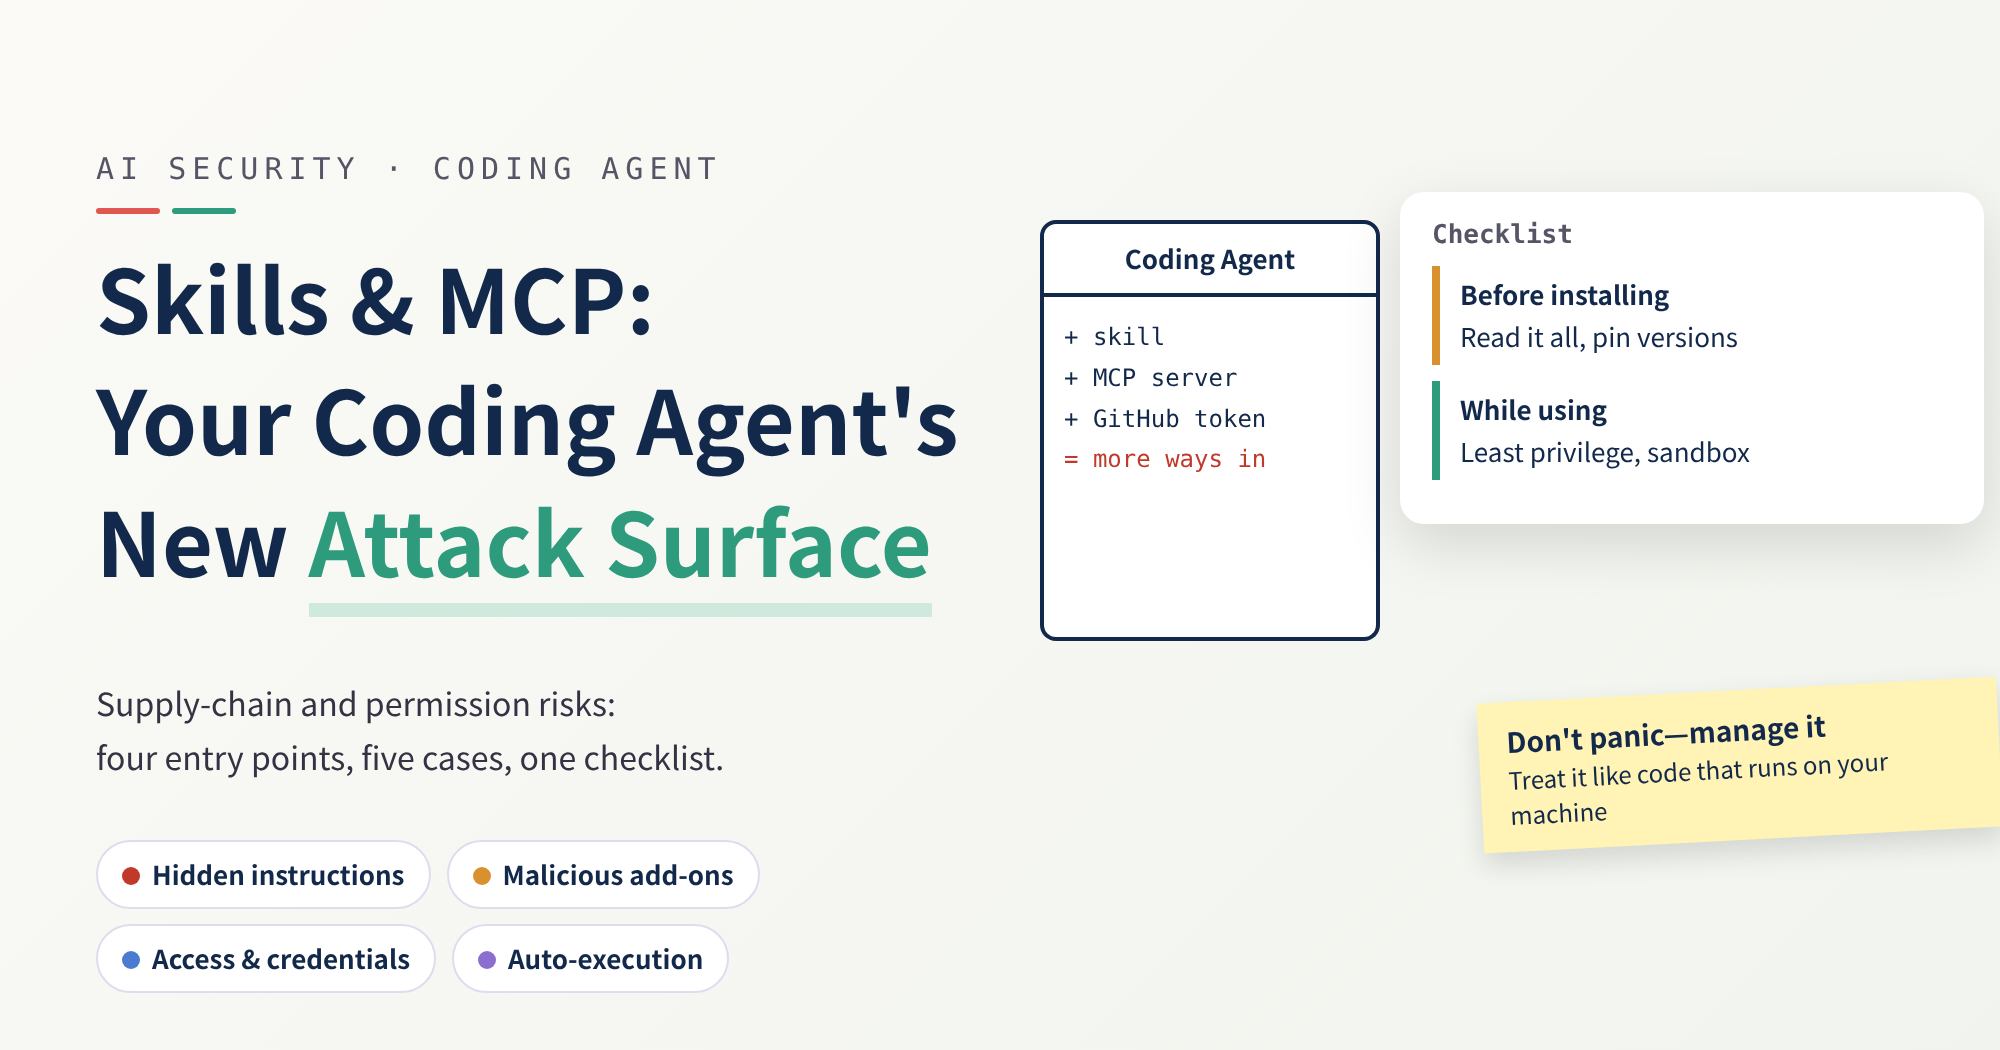
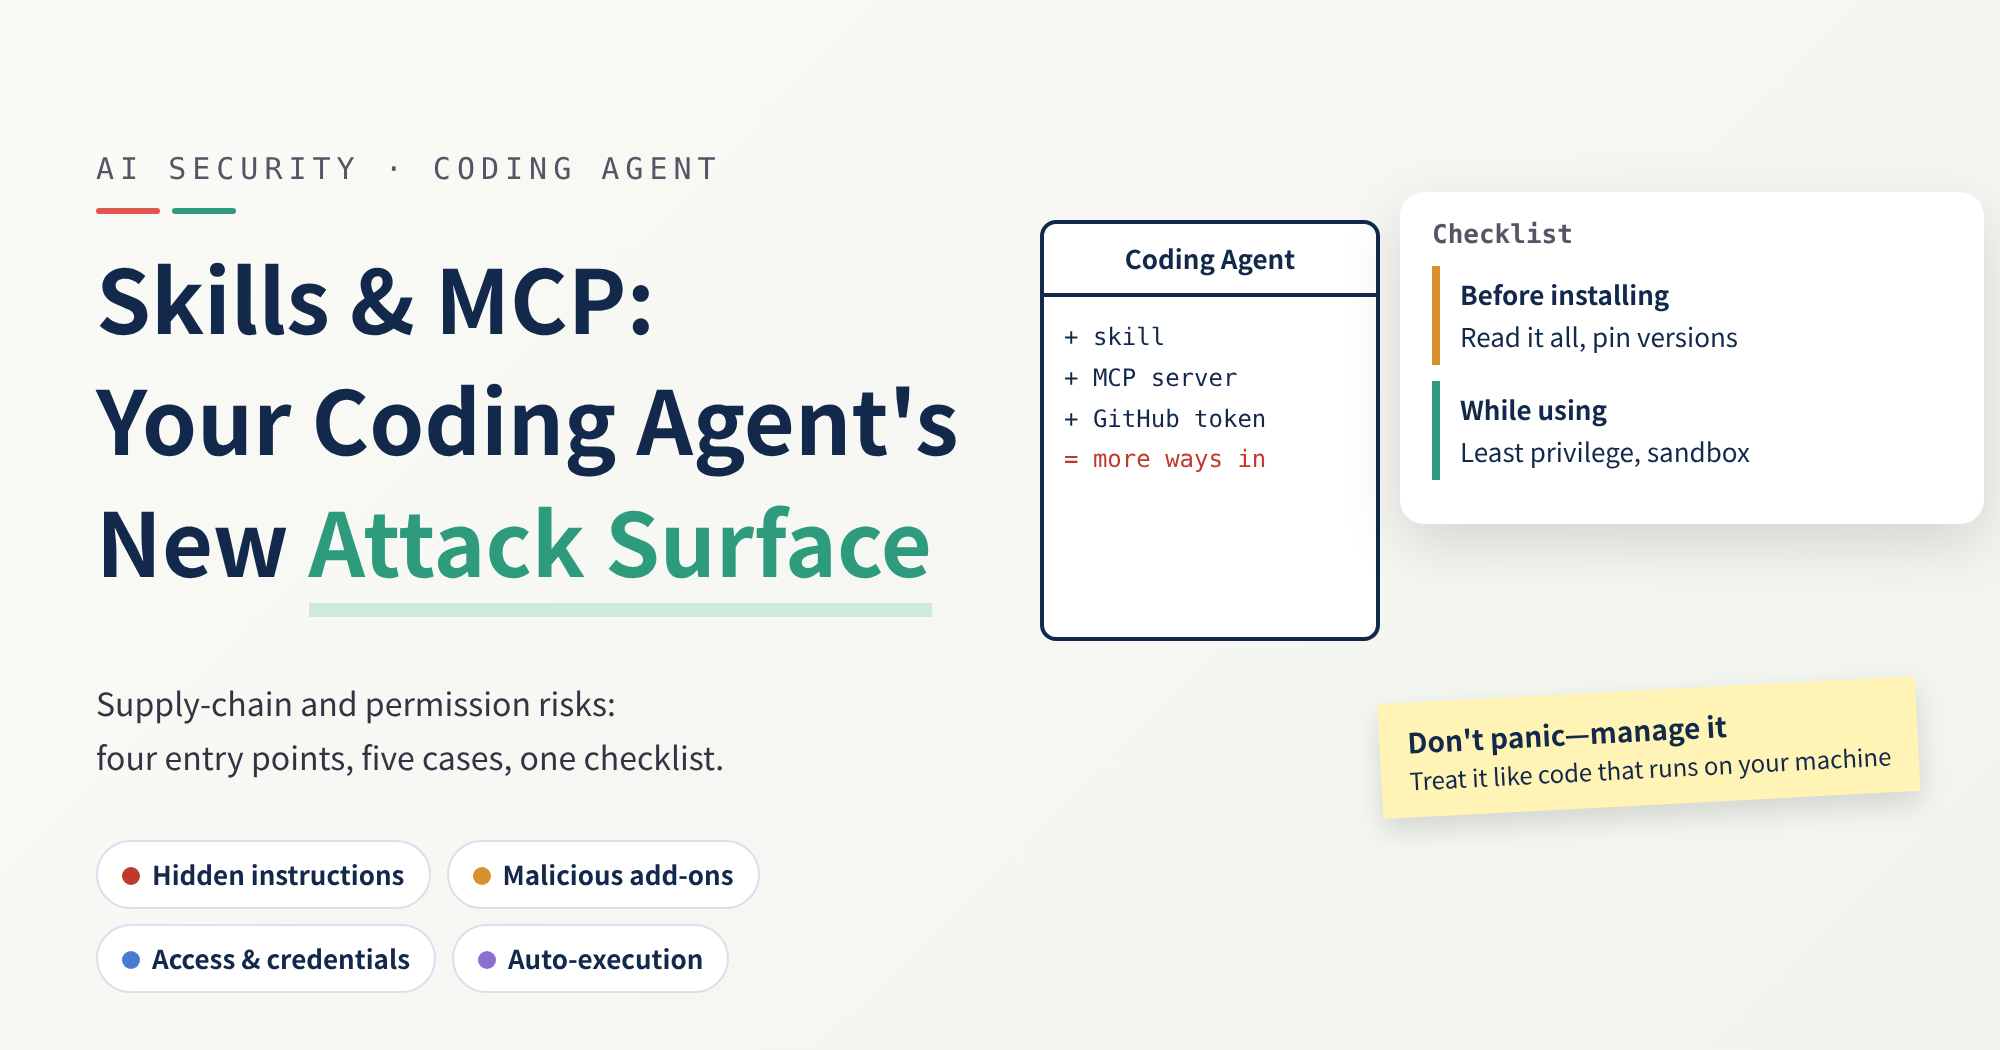
英文版微調：更新 description、封面便利貼左移（JM-20261016-001 v6）

Changed region(s): [[0.682, 0.64, 1.0, 0.8229]]

diff --git a/_posts/en/2026-10-16-coding-agent-supply-chain-permission-risks.md b/_posts/en/2026-10-16-coding-agent-supply-chain-permission-risks.md
@@ -1,6 +1,6 @@
 ---
 title: "Third-Party Skills and MCP Servers: The New Attack Surface in Your Coding Agent"
-description: "How third-party skills and MCP servers widen a coding agent's attack surface—prompt injection, supply-chain attacks, over-broad permissions—told through five public cases, with a practical checklist."
+description: "Five real cases show how third-party skills and MCP servers widen a coding agent's attack surface—prompt injection, supply chain, permissions—plus a checklist."
 date: 2026-10-16 16:30:00 +0800
 categories: [Security, AI Agents]
 tags: [ai-security, coding-agent, mcp, agent-skills, prompt-injection, supply-chain-security]
